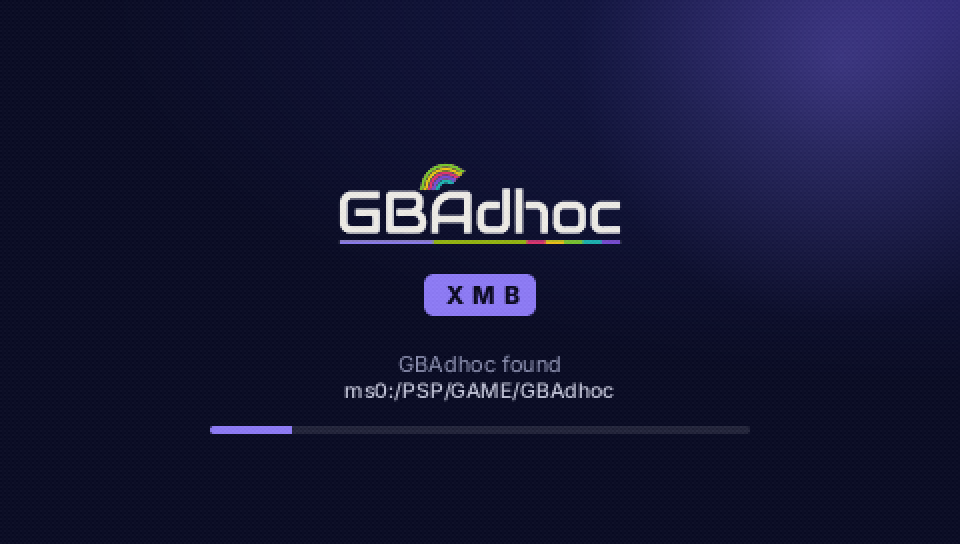
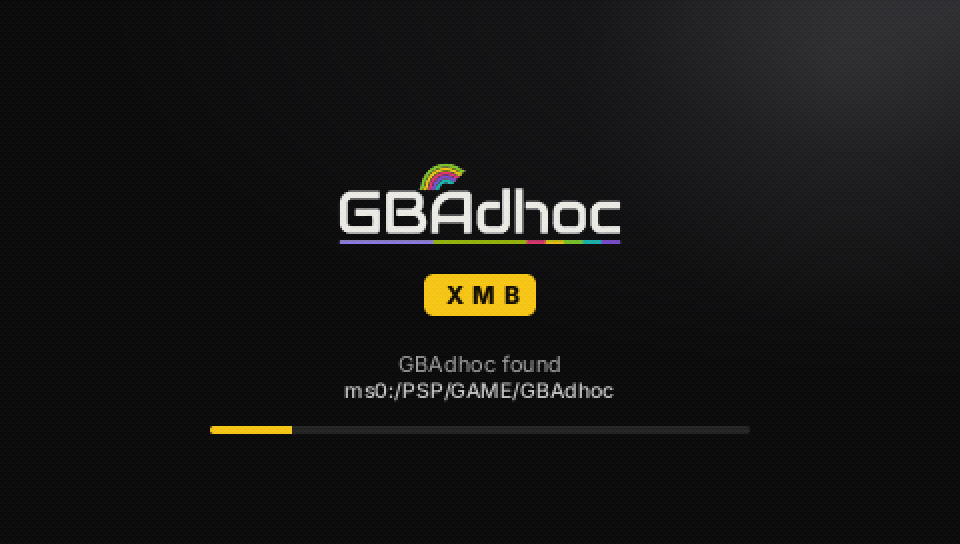
README in Graphite: screenshots, hero and XMB mark
Every docs/img screenshot recaptured from the real apps in Graphite, in
beta 1's states: the PSP app in PPSSPP (480x272 frames at 2x, nearest),
the Windows app through its own WebView2 capture on the test fake PSP,
offline.  The hero re-rendered with the real PSP model (same pose) over a
neutral Graphite backdrop.  The XMB tile mark is amber; the GBAdhoc logo
is unchanged.  Text: the theme picker (four themes, Graphite by default),
how themes reach title cards, the theme tests, beta 2 downloads.

diff --git a/README.md b/README.md
@@ -9,8 +9,8 @@
 <h3 align="center">Every GBA, Game Boy and Game Boy Color game its own icon in your PSP's XMB,<br>opening straight into GBAdhoc.</h3>
 
 <p align="center">
-  <a href="LICENSE"><img src="https://img.shields.io/badge/licence-GPL--2.0--or--later-8d7bf3" alt="Licence: GPL-2.0-or-later"></a>
-  <a href="https://github.com/ShoshinFauteux/GBAdhoc-XMB/releases"><img src="https://img.shields.io/badge/release-0.1.0--beta.1%20(pre--release)-f4bb20" alt="Release: 0.1.0-beta.1, pre-release"></a>
+  <a href="LICENSE"><img src="https://img.shields.io/badge/licence-GPL--2.0--or--later-5a5a5f" alt="Licence: GPL-2.0-or-later"></a>
+  <a href="https://github.com/ShoshinFauteux/GBAdhoc-XMB/releases"><img src="https://img.shields.io/badge/release-0.1.0--beta.2%20(pre--release)-f5c518" alt="Release: 0.1.0-beta.2, pre-release"></a>
   <img src="https://img.shields.io/badge/PSP-1000%20%C2%B7%202000%20%C2%B7%203000%20%C2%B7%20Go-1fb5b0" alt="PSP-1000, 2000, 3000 and Go">
   <img src="https://img.shields.io/badge/Windows-10%20%C2%B7%2011-8ac32a" alt="Windows 10 and 11">
 </p>
@@ -37,11 +37,13 @@ XMB and it opens straight into GBAdhoc, with the same saves and save states as t
 It comes as two apps with one design. **The PSP app** does everything on the console: it
 finds your ROMs, recognises them, fetches their art over Wi-Fi and makes the entries.
 **The Windows app** does the same over USB, for a whole library at once.
+Both come in four colour themes, chosen in Settings: **Graphite**, the default, shown here,
+**Slate**, **Teal** and **Classic**.
 
 An entry is a small launcher of about 130 KB and a `launch.ini` that names the ROM. **Your
 ROMs are never copied.**
 
-> **This is a pre-release, 0.1.0 beta 1.** It works on a real PSP Go, and there is more to do
+> **This is a pre-release, 0.1.0 beta 2.** It works on a real PSP Go, and there is more to do
 > before 1.0: see [Pre-release: more work before 1.0](#pre-release-more-work-before-10).
 > Entries need **GBAdhoc 4.6.0-beta.4 or later**, which added the launch mode they start. Beta 4 is in testing and will be published on the [GBAdhoc releases page](https://github.com/ShoshinFauteux/GBAdhoc/releases) shortly; until then entries cannot start a game.
 
@@ -107,11 +109,15 @@ ROMs are never copied.**
 - **Previews the XMB** for each game before it writes anything.
 - **Uses the PSP's own network settings** and works offline: without Wi-Fi you can still make
   entries with the art already on the stick.
+- **Four colour themes.** Graphite (neutral greys with an amber accent, the default), Slate
+  (cool greys, steel blue), Teal (the logo's teal) and Classic (the indigo and violet of the
+  first beta). Change it in Settings › Theme with ◀ and ▶; it applies at once and is kept.
 
 ### Windows app
 
 - **One exe, nothing to install.** The UI is inside it, shown by the WebView2 runtime that
-  Windows 10 and 11 include. Dark and light themes.
+  Windows 10 and 11 include. The same four colour themes as the PSP app, in Settings › Theme,
+  each in dark or light.
 - **Finds the PSP by itself**, whatever drive letter Windows gives it, on a PSP-1000, 2000, 3000
   or Go. A Go's Memory Stick and internal storage are both shown.
 - **Recognises ROMs properly** against the No-Intro lists from libretro-database: by checksum,
@@ -146,6 +152,11 @@ gbadhoc = PSP/GAME/GBAdhoc
   background (PIC1, 480x272) and its `launch.ini` differ.
 - **The launcher starts your installed GBAdhoc** in its launch mode, with the ROM from
   `launch.ini`. Updating GBAdhoc updates every entry.
+- **The theme is only the app's.** The one piece of an entry it reaches is the title card, the
+  icon a game with no art gets: its Game Boy Advance cards are drawn in the theme's colour
+  family (Game Boy and Game Boy Color cards look the same in every theme). An entry keeps the
+  icon it was written with; changing the theme only changes entries made or updated after.
+  Box art, hero art, your own pictures and the launcher are the same in every theme.
 - **No ROM is copied.** The ROM stays in GBAdhoc's `roms` folder, so an entry is never a copy
   of a game. Saves, save states, settings and cheats are the game list's own: a game is the
   same game from its entry or from the list.
@@ -164,7 +175,7 @@ First, install **GBAdhoc 4.6.0-beta.4 or later** in `PSP/GAME/GBAdhoc`, with you
 
 ### PSP app
 
-1. Download `GBAdhoc-XMB-0.1.0-beta.1-psp.zip` from the
+1. Download `GBAdhoc-XMB-0.1.0-beta.2-psp.zip` from the
    [pre-release](https://github.com/ShoshinFauteux/GBAdhoc-XMB/releases) and unzip it to the
    **root** of your Memory Stick or your PSP Go's internal storage. It lands in
    `PSP/GAME/GBAdhocXMB`.
@@ -175,7 +186,7 @@ First, install **GBAdhoc 4.6.0-beta.4 or later** in `PSP/GAME/GBAdhoc`, with you
 
 ### Windows app
 
-1. Download `GBAdhoc-XMB-0.1.0-beta.1-windows.zip` from the
+1. Download `GBAdhoc-XMB-0.1.0-beta.2-windows.zip` from the
    [pre-release](https://github.com/ShoshinFauteux/GBAdhoc-XMB/releases) and unzip it anywhere.
 2. Connect the PSP in USB mode (on a Go, Settings › USB Connection) and run
    `GBAdhoc-XMB.exe`. It finds the PSP and scans it.
@@ -239,6 +250,8 @@ Tests:
 tools/test_core.sh        # Linux/WSL: entries checked byte by byte, PARAM.SFO against the SDK's mksfoex
 desktop/test_app.sh       # Windows: the real app on fake PSPs, offline, cable pulls included
 psp/tools/run_ppsspp.sh   # Linux/WSL: the PSP app in PPSSPP, driven by a key script
+python tools/test_themes.py                  # every theme defines every token, in both apps
+python psp/tools/check_shots.py <shots dir>  # contrast, size and overlap of the text in those shots
 ```
 
 The test folders hold placeholder ROMs only: correct headers and names, no game.
